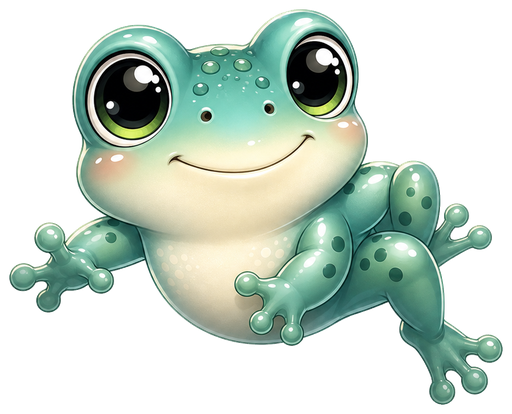
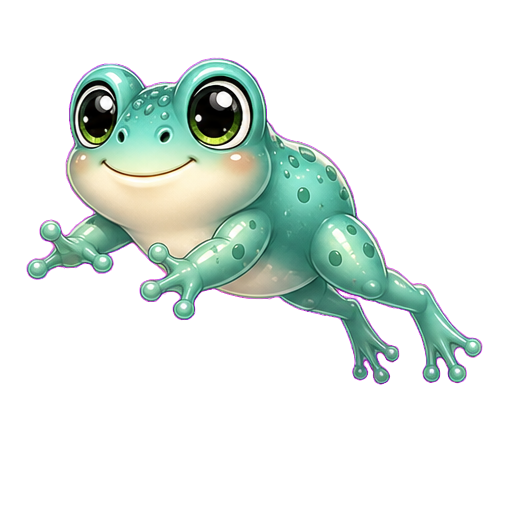
Regenerate directional frog cursor sprites

diff --git a/apps/web/app/components/portfolio/FrogTongueCursor.tsx b/apps/web/app/components/portfolio/FrogTongueCursor.tsx
@@ -14,6 +14,7 @@ interface FrogTongueCursorProps {
 
 type FrogPhase = "idle" | "aim" | "hop" | "shoot" | "catch" | "miss" | "swallow";
 type FlyPhase = "free" | "caught" | "respawn";
+type FrogDirection = -1 | 1;
 
 type Point = {
     x: number;
@@ -35,11 +36,25 @@ const FROG_MOUTH_OFFSET_Y = 27;
 const frogSprites = {
     idle: "/cursors/frog-idle.png",
     blink: "/cursors/frog-blink.png",
-    ready: "/cursors/frog-hop-ready.png",
-    launch: "/cursors/frog-hop-launch.png",
-    hop: "/cursors/frog-hop.png",
-    land: "/cursors/frog-hop-land.png",
     open: "/cursors/frog-open.png",
+    hop: {
+        ready: {
+            left: "/cursors/frog-hop-ready-left.png",
+            right: "/cursors/frog-hop-ready-right.png",
+        },
+        launch: {
+            left: "/cursors/frog-hop-launch-left.png",
+            right: "/cursors/frog-hop-launch-right.png",
+        },
+        air: {
+            left: "/cursors/frog-hop-left.png",
+            right: "/cursors/frog-hop-right.png",
+        },
+        land: {
+            left: "/cursors/frog-hop-land-left.png",
+            right: "/cursors/frog-hop-land-right.png",
+        },
+    },
 } as const;
 const frogImageClass = "absolute inset-0 h-full w-full select-none object-contain";
 
@@ -90,6 +105,10 @@ function getMouthPoint(frogX: number, frogY: number, frogHop: number): Point {
     };
 }
 
+function directedSprite(sprite: { left: string; right: string }, direction: FrogDirection) {
+    return direction === -1 ? sprite.left : sprite.right;
+}
+
 function FlyIcon({ isDark }: { isDark: boolean }) {
     const body = isDark ? "#b8f3e8" : "#2f7f74";
     const wing = isDark ? "rgba(239,255,252,0.8)" : "rgba(216,246,239,0.82)";
@@ -132,7 +151,7 @@ function FlyIcon({ isDark }: { isDark: boolean }) {
     );
 }
 
-function FrogSprite({ phase }: { phase: FrogPhase }) {
+function FrogSprite({ phase, direction }: { phase: FrogPhase; direction: FrogDirection }) {
     const mouthOpen = phase === "shoot" || phase === "catch" || phase === "swallow";
     const isHopping = phase === "hop";
 
@@ -155,7 +174,7 @@ function FrogSprite({ phase }: { phase: FrogPhase }) {
                 transition={{ duration: 4.4, repeat: Infinity, times: [0, 0.8, 0.84, 0.88, 0.92, 1], ease: "easeInOut" }}
             />
             <motion.img
-                src={frogSprites.ready}
+                src={directedSprite(frogSprites.hop.ready, direction)}
                 alt=""
                 draggable="false"
                 className={frogImageClass}
@@ -171,7 +190,7 @@ function FrogSprite({ phase }: { phase: FrogPhase }) {
                 }}
             />
             <motion.img
-                src={frogSprites.launch}
+                src={directedSprite(frogSprites.hop.launch, direction)}
                 alt=""
                 draggable="false"
                 className={frogImageClass}
@@ -187,7 +206,7 @@ function FrogSprite({ phase }: { phase: FrogPhase }) {
                 }}
             />
             <motion.img
-                src={frogSprites.hop}
+                src={directedSprite(frogSprites.hop.air, direction)}
                 alt=""
                 draggable="false"
                 className={frogImageClass}
@@ -203,7 +222,7 @@ function FrogSprite({ phase }: { phase: FrogPhase }) {
                 }}
             />
             <motion.img
-                src={frogSprites.land}
+                src={directedSprite(frogSprites.hop.land, direction)}
                 alt=""
                 draggable="false"
                 className={frogImageClass}
@@ -237,7 +256,7 @@ export default function FrogTongueCursor({ isDark }: FrogTongueCursorProps) {
     const [frogPhase, setFrogPhase] = useState<FrogPhase>("idle");
     const [flyPhase, setFlyPhase] = useState<FlyPhase>("free");
     const [tongueShotId, setTongueShotId] = useState(0);
-    const [facing, setFacing] = useState<1 | -1>(1);
+    const [facing, setFacing] = useState<FrogDirection>(1);
 
     const pointerRef = useRef<Point>({ x: 0, y: 0 });
     const lastPointerMoveAtRef = useRef(0);
@@ -409,7 +428,7 @@ export default function FrogTongueCursor({ isDark }: FrogTongueCursorProps) {
                     window.innerWidth - 84,
                 );
                 setFacing((current) => {
-                    const nextFacing = perchX >= currentFrogX ? 1 : -1;
+                    const nextFacing: FrogDirection = hopDirection;
                     return current === nextFacing ? current : nextFacing;
                 });
                 queue(() => {
@@ -518,8 +537,9 @@ export default function FrogTongueCursor({ isDark }: FrogTongueCursorProps) {
             hasPointerRef.current = true;
             setHasPointer(true);
             setFacing((current) => {
+                if (frogPhaseRef.current === "hop") return current;
                 if (Math.abs(x - frogX.get()) < 20) return current;
-                const nextFacing = x >= frogX.get() ? 1 : -1;
+                const nextFacing: FrogDirection = x >= frogX.get() ? 1 : -1;
                 return current === nextFacing ? current : nextFacing;
             });
 
@@ -661,13 +681,13 @@ export default function FrogTongueCursor({ isDark }: FrogTongueCursorProps) {
             <motion.div
                 data-testid="frog-hunter"
                 data-frog-state={frogPhase}
+                data-frog-facing={facing === -1 ? "left" : "right"}
                 className="absolute z-10 h-[58px] w-[68px]"
                 style={{
                     x: frogX,
                     y: renderedFrogY,
                     translateX: "-50%",
                     translateY: "-92%",
-                    scaleX: facing,
                     willChange: "transform",
                 }}
                 initial={{ opacity: 0 }}
@@ -676,7 +696,7 @@ export default function FrogTongueCursor({ isDark }: FrogTongueCursorProps) {
                 }}
                 transition={{ opacity: { duration: 0.18 } }}
             >
-                <FrogSprite phase={frogPhase} />
+                <FrogSprite phase={frogPhase} direction={facing} />
             </motion.div>
         </div>
     );
